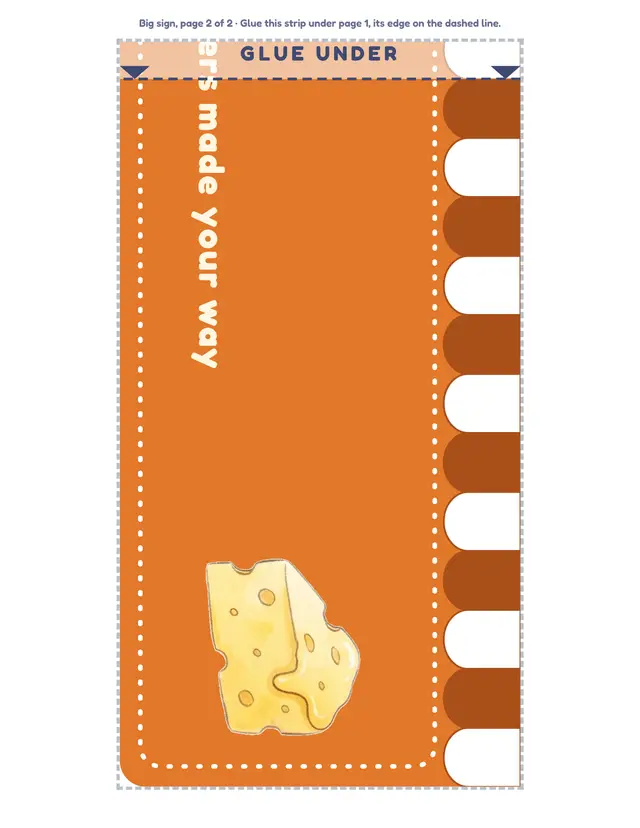
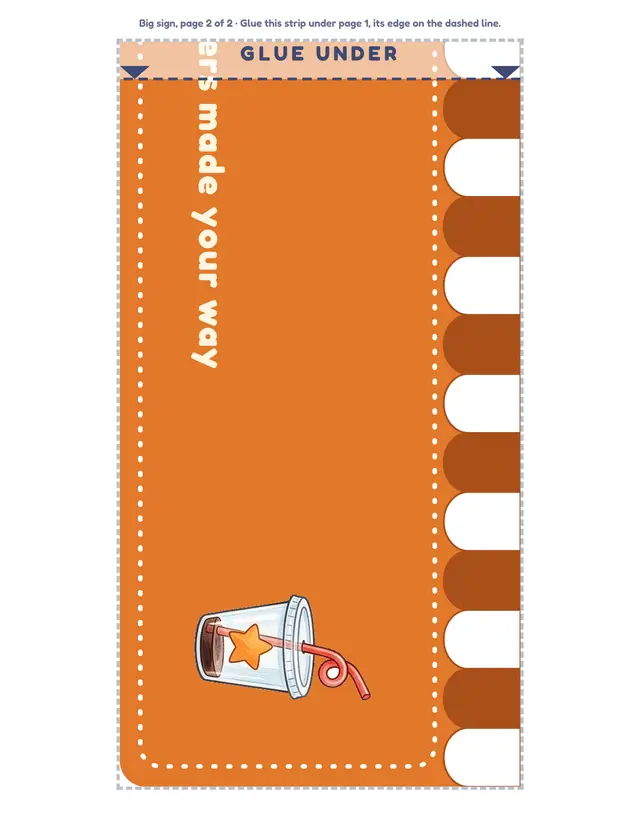
Pizza and Burger welcome posters show one pizza and one burger
The poster's picture trio defaulted to the first two menu items plus the kit icon, which
doubled up the pizza slice and the burger. Each kit now names its own trio (cheese, pizza,
tomato; fries, burger, milkshake). Rebuilt the kit-1/kit-2 gallery pages that show them.

Claude-Session: https://claude.ai/code/session_014qxxX18aDEMFTvViofG4jB

Changed region(s): [[0.2812, 0.6643, 0.5938, 0.9058]]

diff --git a/src/kits/defs/burger.js b/src/kits/defs/burger.js
@@ -57,7 +57,7 @@ module.exports = {
     title: 'Burger Menu', icon: '🍔', coinIcon: '🪙', coinWord: 'coin', coinsTitle: 'Burger coins',
     items: [['🍔', 'Hamburger', 3], ['🧀', 'Cheeseburger', 4], ['🥓', 'Bacon burger', 4], ['🥗', 'Veggie burger', 3], ['🌭', 'Hot dog', 2], ['🍟', 'Fries', 2], ['🥤', 'Milkshake', 2], ['🍦', 'Ice cream', 1]],
   },
-  shop: { open: 'Hot off the grill!', specials: [['🍔', 'Cheeseburger'], ['🍟', 'Fries'], ['🥤', 'Milkshake']] },
+  shop: { open: 'Hot off the grill!', hero: ['🍟', '🍔', '🥤'], specials: [['🍔', 'Cheeseburger'], ['🍟', 'Fries'], ['🥤', 'Milkshake']] },
   toys: [
     { type: 'burger', inside: 'Big burger layers to cut out and stack, plus 6 order cards', title: 'Build a Burger', howTo: 'Best on cardstock. Cut out the layers, then stack them to match an order card.',
       layers: ['bunTop', 'lettuce', 'tomato', 'cheese', 'patty', 'onion', 'pickles', 'bunBottom'],

diff --git a/src/kits/defs/pizza.js b/src/kits/defs/pizza.js
@@ -61,7 +61,7 @@ module.exports = {
     title: 'Pizza Menu', icon: '🍕', coinIcon: '🪙', coinWord: 'coin', coinsTitle: 'Pizza coins',
     items: [['🧀', 'Cheese pizza', 3], ['🍕', 'Pepperoni pizza', 4], ['🫑', 'Veggie pizza', 4], ['🍍', 'Hawaiian pizza', 4], ['🥖', 'Garlic bread', 2], ['🍝', 'Pasta', 3], ['🥗', 'Salad', 2], ['🥤', 'Drink', 1]],
   },
-  shop: { open: 'Fresh from the oven!' },
+  shop: { open: 'Fresh from the oven!', hero: ['🧀', '🍕', '🍅'] },
   toys: [
     { type: 'pizza', inside: 'A big pizza to top and slice, a sheet of toppings and 6 order cards', title: 'Make a Pizza', howTo: 'Best on cardstock. Cut out the pizza and toppings, then make the pizza on an order card.',
       toppings: [['pepperoni', 'Pepperoni'], ['🍄', 'Mushrooms'], ['🫑', 'Peppers'], ['🫒', 'Olives'], ['🍍', 'Pineapple'], ['🌿', 'Basil']],
